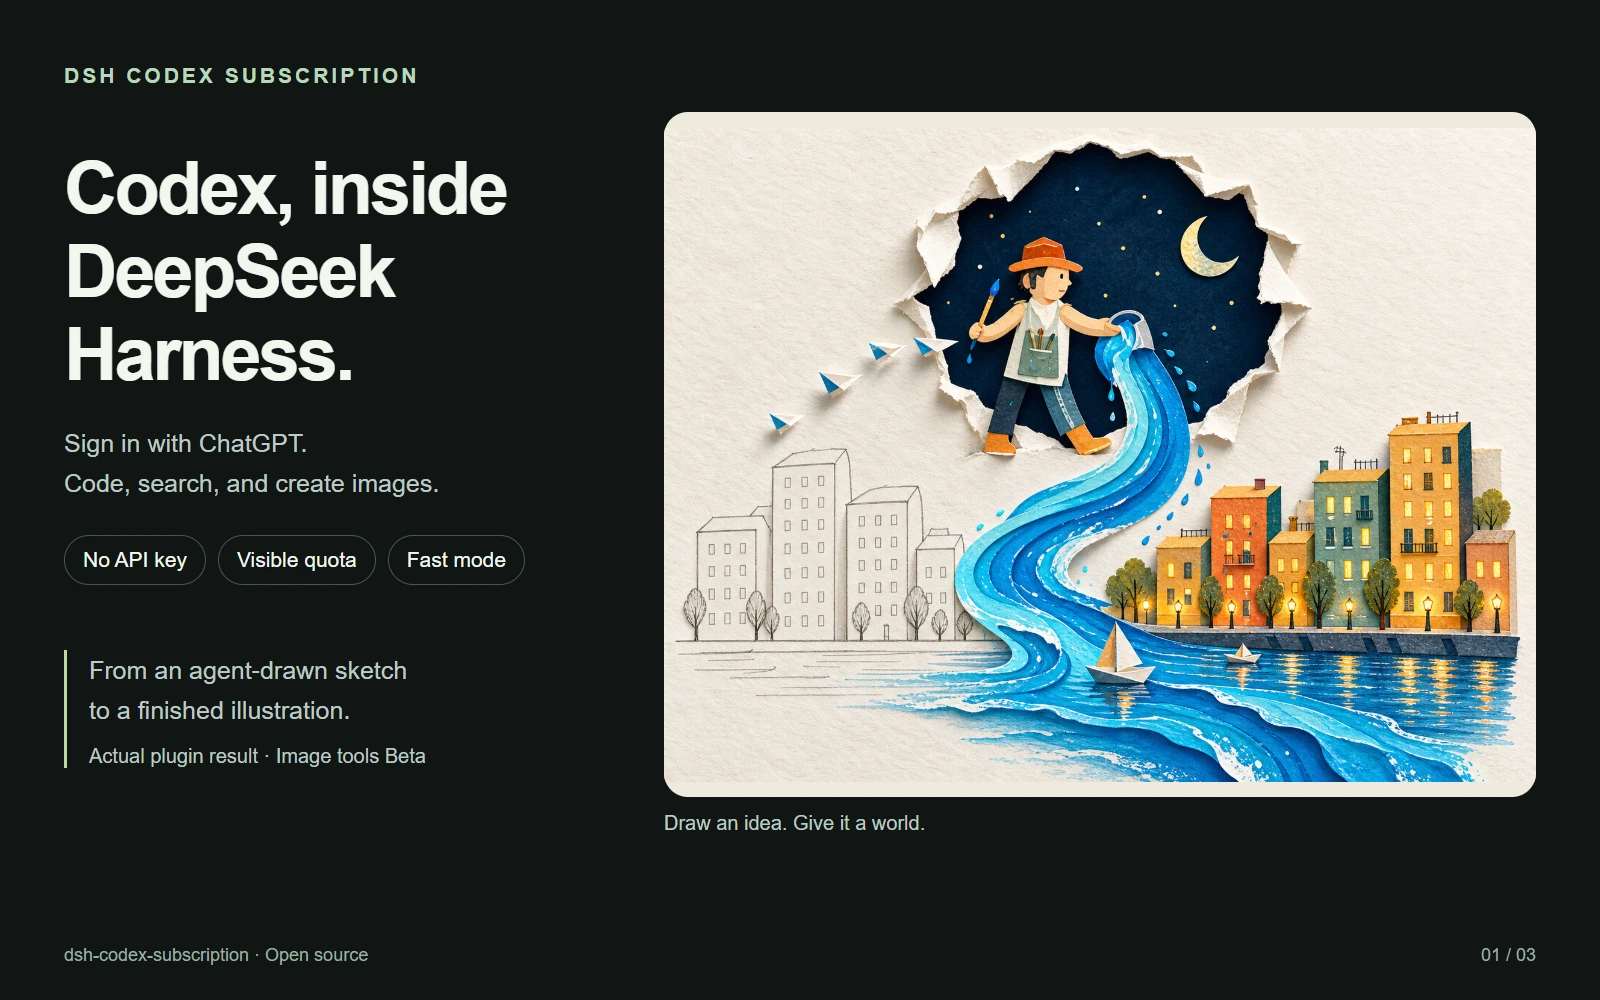
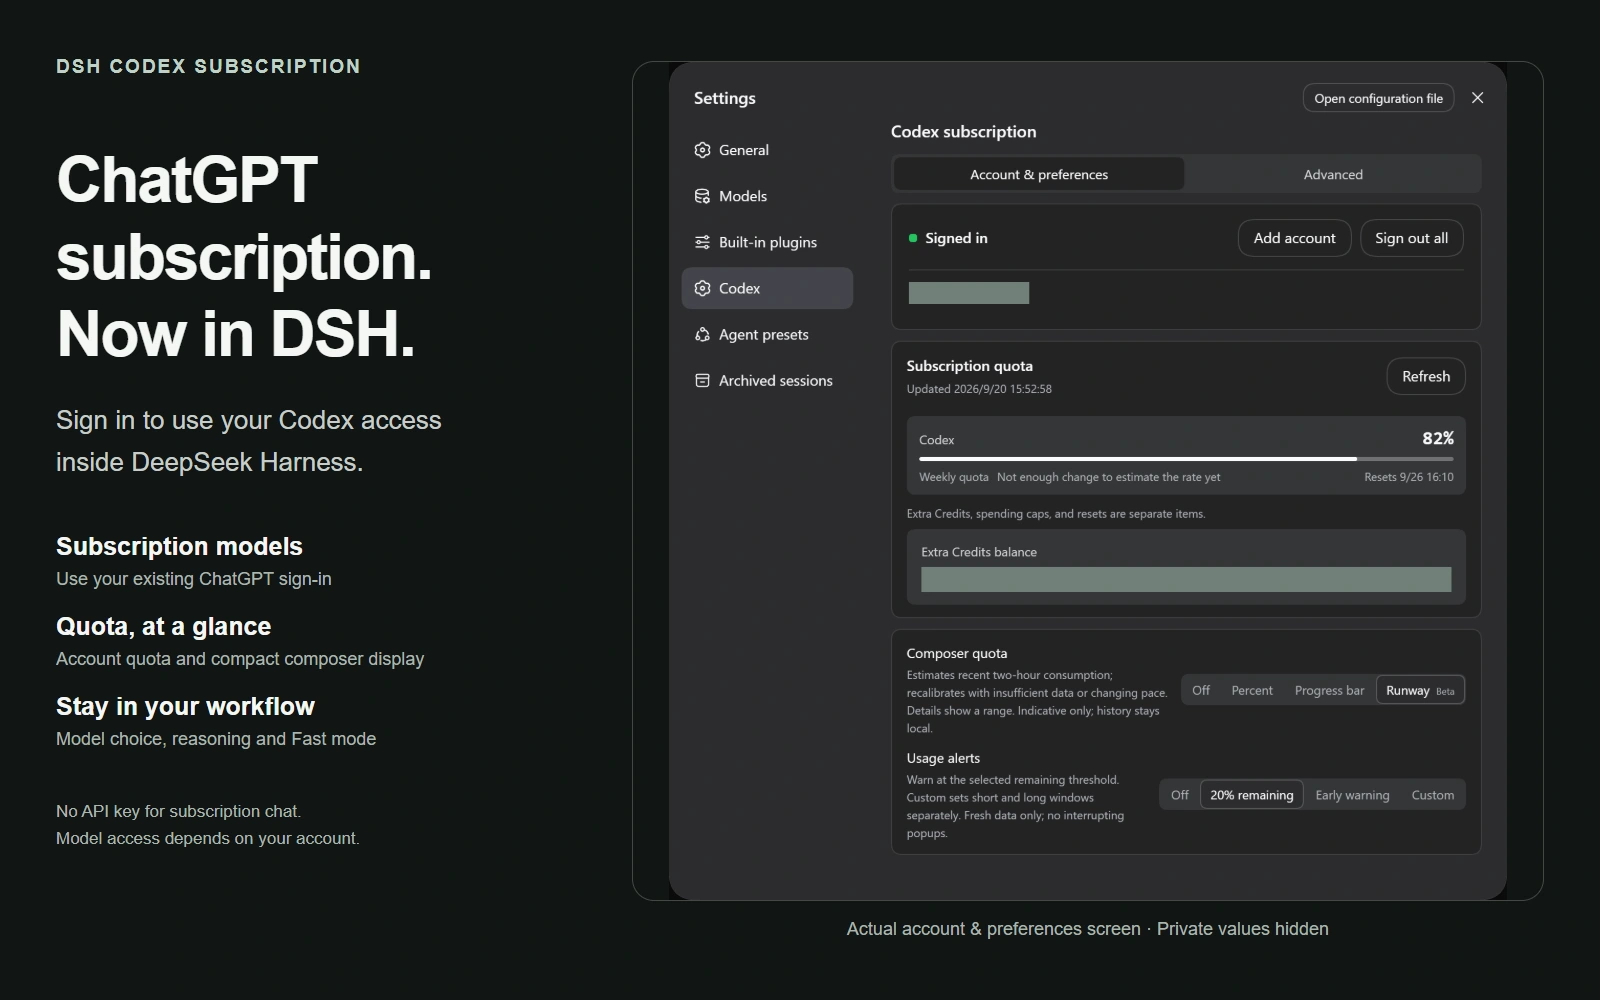
docs: center subscription access and quota in product screenshots

diff --git a/README.en.md b/README.en.md
@@ -1,6 +1,6 @@
 <div align="center">
 
-# DSH Codex Subscription
+# DSH Codex Subscription — Use ChatGPT subscriptions in DeepSeek Harness
 
 [简体中文](https://github.com/WSL043/dsh-codex-subscription/blob/main/README.md) · **English**
 
@@ -19,7 +19,7 @@ No OpenAI API key or Codex CLI. Models, search, quota, and image generation stay
 </div>
 
 <p align="center">
-  <img src="docs/assets/codex-subscription-overview-en.webp" width="900" alt="Your Codex subscription inside DSH: models, web search, quota and safe reset, image generation, and Fast mode">
+  <img src="docs/assets/codex-subscription-overview-en.webp" width="900" alt="Use ChatGPT and Codex subscriptions in DeepSeek Harness: sign in without an API key, choose models and view remaining quota">
 </p>
 
 ## Three-step start
@@ -57,10 +57,10 @@ These capabilities reuse the same local ChatGPT sign-in. Subscription routing fa
 ## Product screen
 
 <p align="center">
-  <img src="docs/assets/settings-advanced-current-en.png" width="820" alt="Live DSH advanced settings: models, search, connection and cloud compaction">
+  <img src="docs/assets/subscription-account-en.png" width="820" alt="DSH Codex subscription main screen: ChatGPT sign-in, remaining quota and composer preferences">
 </p>
 
-Settings are grouped into Account & preferences and Advanced. The screenshot shows the upper part of the actual English advanced page. Optional component management is shown below.
+The actual Account & preferences screen shows sign-in status, subscription quota and composer preferences. Account identifiers and Credits balances are hidden; quota is an account-specific snapshot. Advanced options and optional components are described below.
 
 ## Prepare DSH
 
